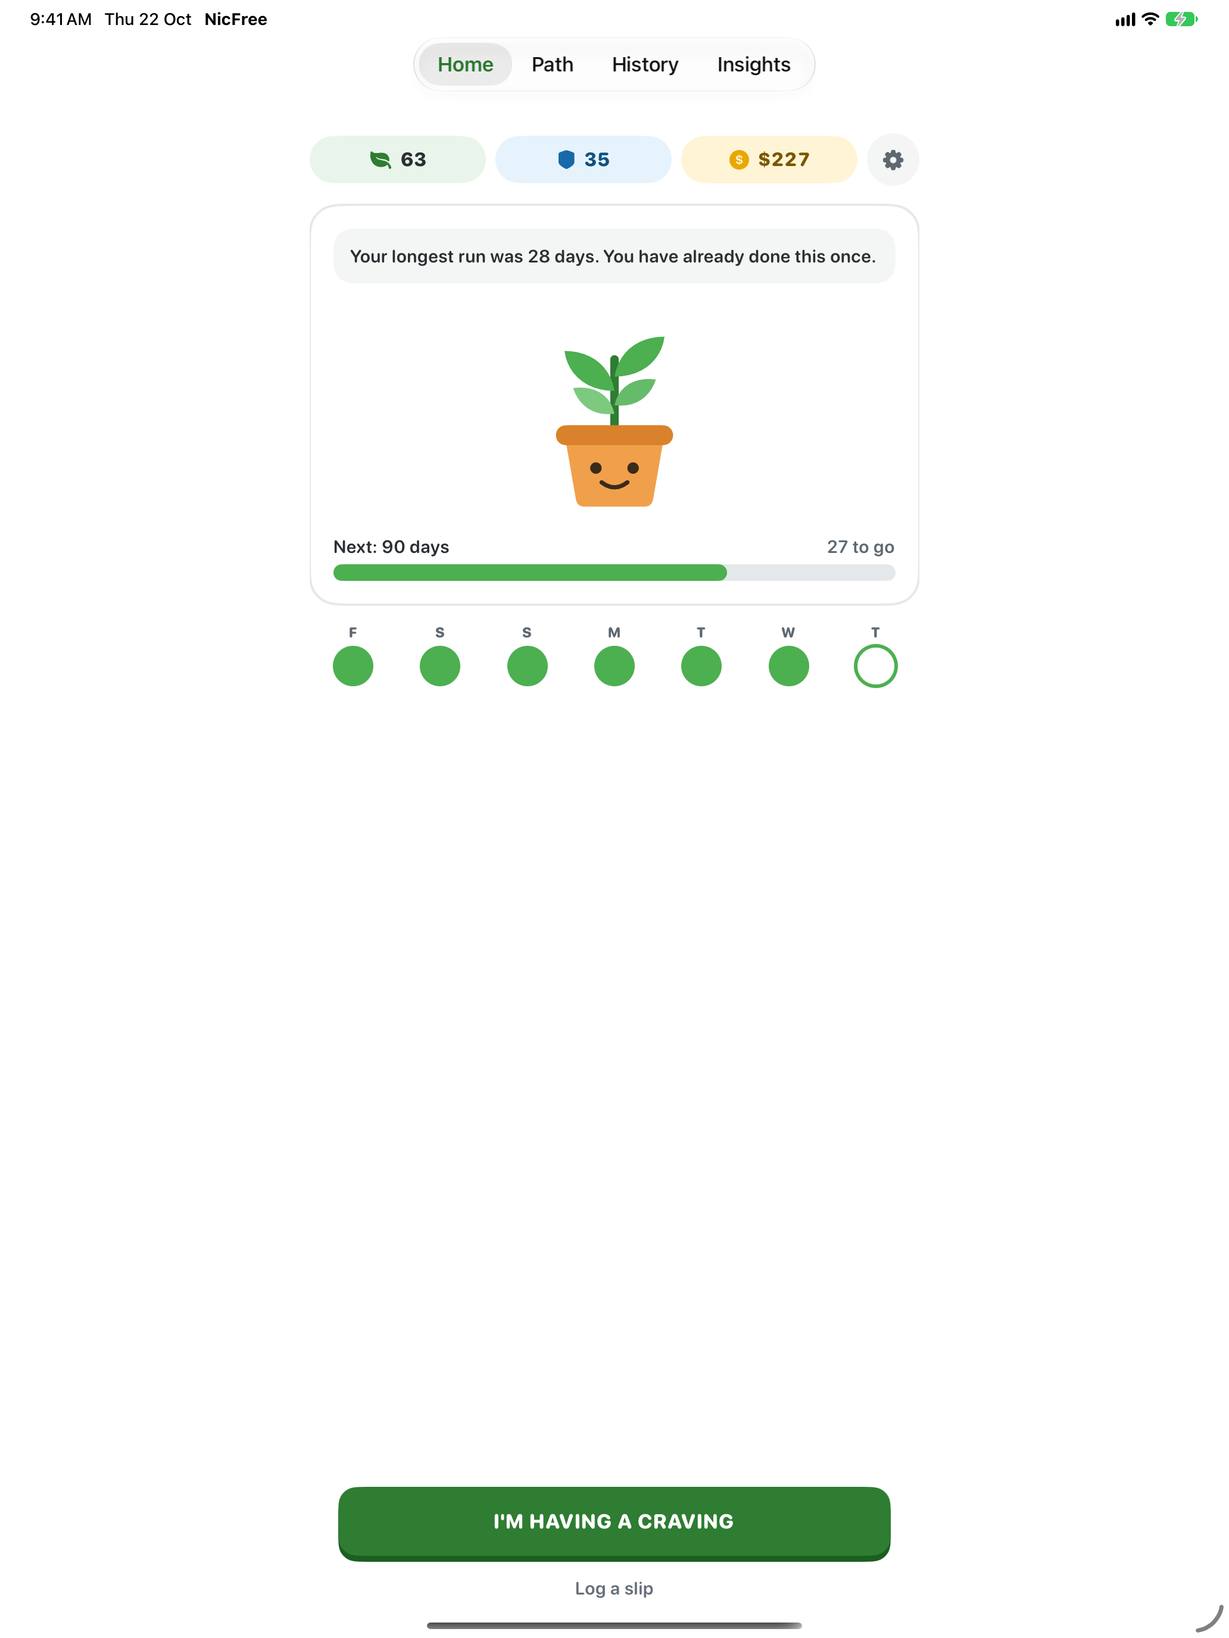
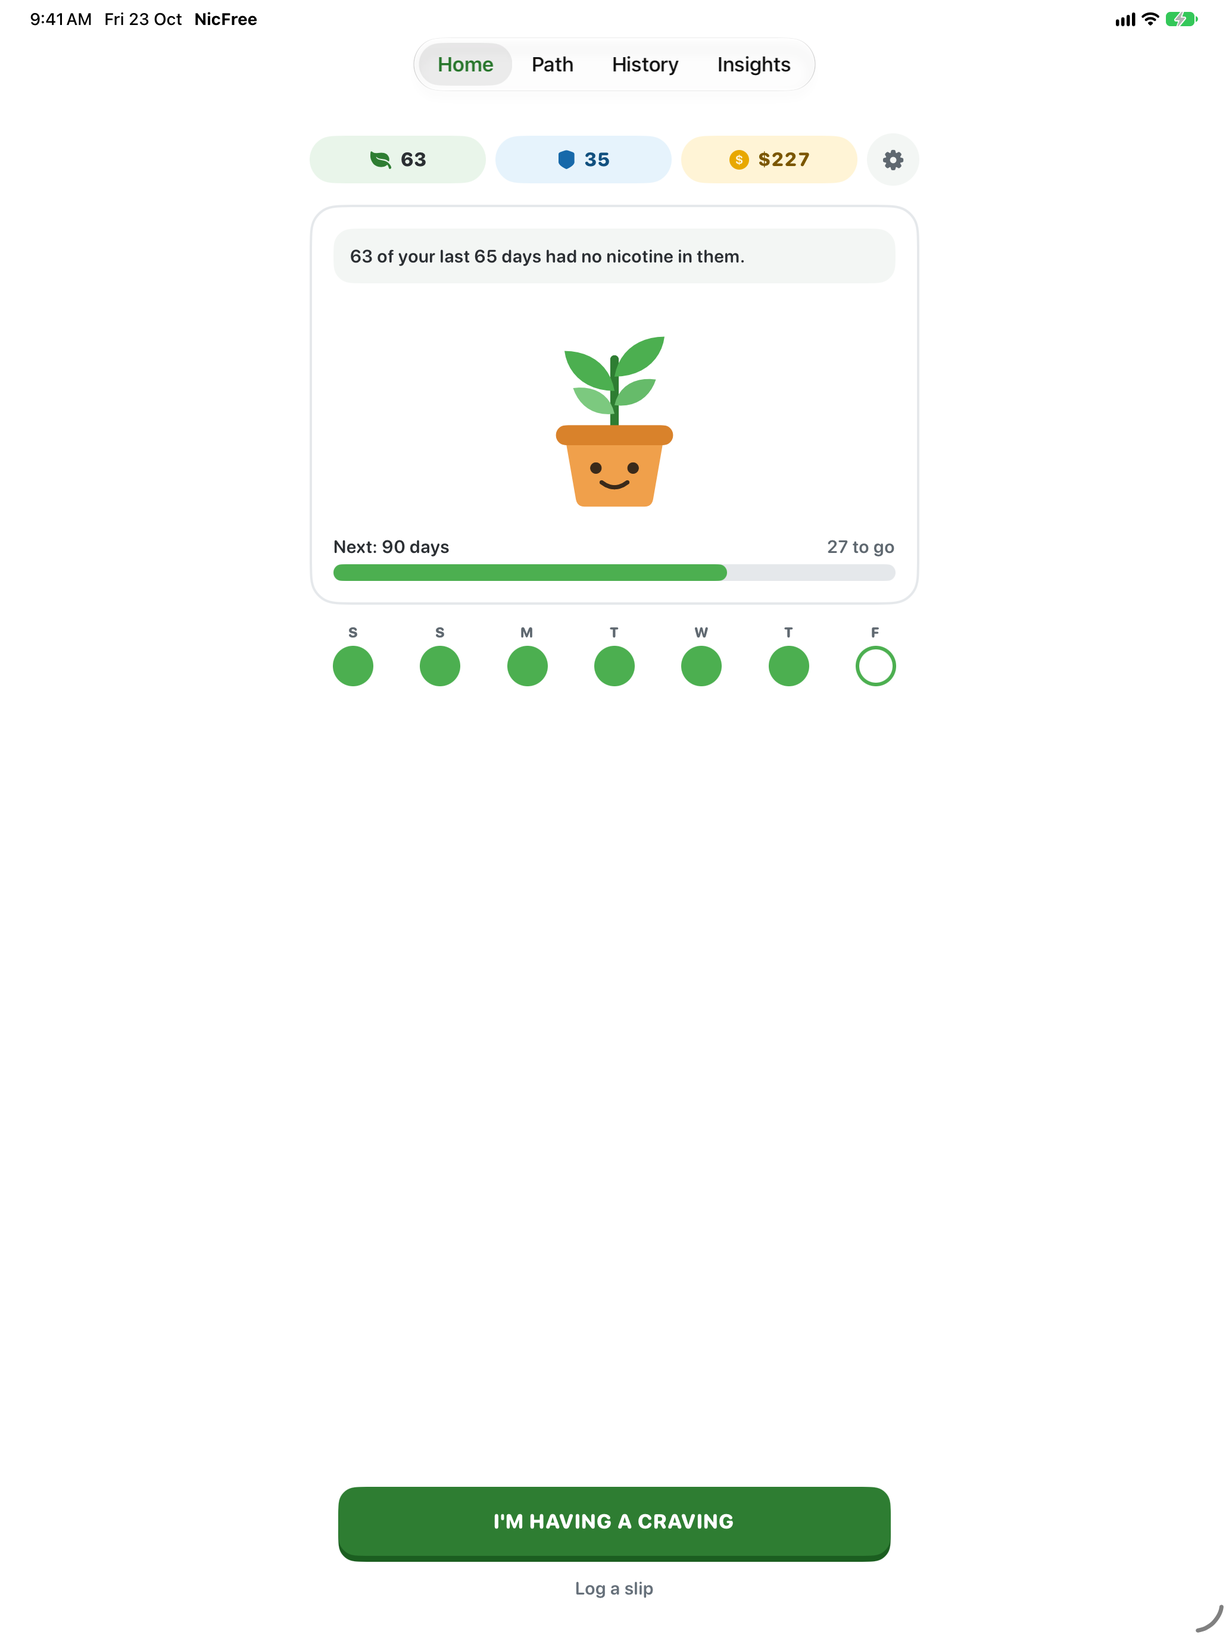
Docs brought up to date, export compliance key, fresh screenshots
- README for the public repo
- LAUNCH.md: Zain's fix list recorded, a "To submit" checklist, build ownership corrected
- FLOWS.md and ARCHITECTURE.md describe the current app: tabs, catch-up, paywall, settings
- CLAUDE.md: today exception to rule 1, opt-in check-in, three test passes, new traps
- LISTING.md: check-in copy fixed, in-app purchase fields, App Review notes
- Milestone primer and support page no longer promise "nothing else, ever"
- ITSAppUsesNonExemptEncryption = NO
- Screenshots regenerated (slip confirmation now has Done)

Changed region(s): [[0.3411, 0.9688, 0.6512, 1.0], [0.093, 0.0, 0.2171, 0.0312]]

diff --git a/site/index.html b/site/index.html
@@ -58,7 +58,7 @@
   <p>On purpose. NicFree counts your free days in total, not a streak. A slip adds a used day; it never takes away the free days you already have.</p>
 
   <h2>Do I need to open the app every day?</h2>
-  <p>No. A day you don't open NicFree counts as a free day. There is nothing to check in to.</p>
+  <p>No. Every day counts as free unless you log a slip. If you're away for a few days, NicFree asks about them once when you're back. There's an optional evening check-in in Settings, off unless you turn it on.</p>
 
   <h2>Where is my data stored?</h2>
   <p>Only on your iPhone or iPad. There is no account and nothing is sent to us. Deleting the app deletes your history, so think twice before you do.</p>

diff --git a/NicFree/NicFree/Features/Craving/CravingView.swift b/NicFree/NicFree/Features/Craving/CravingView.swift
@@ -184,7 +184,7 @@ struct CravingView: View {
                 .font(Typeface.title)
                 .foregroundStyle(Palette.ink)
 
-            Text("A short note at a day, three days, a week, a month. Nothing else, ever. NicFree will never nudge you for not opening it, because there is nothing to keep up with.")
+            Text("A short note at a day, three days, a week, a month. NicFree will never nudge you for not opening it.")
                 .font(Typeface.voice)
                 .foregroundStyle(Palette.inkSoft)
                 .fixedSize(horizontal: false, vertical: true)

diff --git a/docs/FLOWS.md b/docs/FLOWS.md
@@ -4,39 +4,56 @@ What each path through the app does, and what it writes.
 
 ## Launch
 
-`RootView` reads `@Query private var habits: [Habit]`. Empty means onboarding, otherwise
-Home. There is no separate "has onboarded" flag, so nothing can drift out of sync with the
-data.
+A launch screen (the sprout on the app's ground colour, from `NicFree-Info.plist`), then
+`RootView`, which reads `@Query private var habits: [Habit]`. Empty means onboarding,
+otherwise the four tabs: Home, Path, History, Insights. There is no separate "has onboarded"
+flag, so nothing can drift out of sync with the data.
+
+If the store could not be opened, the app runs on a temporary in-memory store and says so:
+before onboarding as its own screen, and on Home as a notice. It never crashes on launch.
 
 ## Onboarding
 
-Five steps, defaults on every one, no account, no paywall, and deliberately no permission
-prompt.
+Five steps, defaults on every one, a back button after the first, no account, no paywall,
+and deliberately no permission prompt.
 
-1. **What do you vape** — disposables, pods, or refillable by millilitre. Sets the unit.
-2. **How much and what it costs** — per week, with steppers. Framed as "a rough number is
-   fine", and it only shapes the money estimate, never the day count.
-3. **When did you stop** — defaults to today, past dates allowed, future dates not.
+1. **What do you use** — vape (disposables, pods, refillable) or nicotine pouches. Sets the
+   unit. One product per person in v1; more than one is on the v1.1 list.
+2. **How much** — per day for pouches, per week for vapes, with a stepper, plus an optional
+   weekly spend in the local currency. Framed as "a rough number is fine", and it only shapes
+   the money estimate, never the day count.
+3. **When did you stop** — Today, Yesterday, or Another day, which opens a calendar. Future
+   dates are not allowed.
 4. **Why** — up to three reasons in their own words. The highest value screen in the app:
    these come back during a craving, which is the only time they matter.
-5. **Ready** — teaches the core mechanic in one sentence: a day you do not open NicFree
-   counts as a day free.
+5. **Ready** — teaches the core mechanic: every day counts as free unless you log a slip,
+   and days away are asked about on return.
 
 **Writes:** one `Habit` on finish. Nicotine content per unit is inferred from the unit type
 rather than asked, and is editable later.
 
 ## Home
 
-Reads everything, writes nothing.
+Reads everything. Writes only `lastCheckedThrough` and catch-up slips.
 
-Hero number, the daily observation line, three quiet rows, then the action pair. The
+Stat chips (free days, cravings beaten, money not spent), the sprout card with the daily
+observation and progress to the next milestone, the week row, then the action pair. The
 asymmetry is deliberate: riding out a craving is a full width primary button, logging a slip
 is a small grey link. It must never be easier to record giving in than to sit with it, and
 that belongs in the hierarchy rather than in a sentence telling someone off.
 
-A toolbar button leads to History.
+A gear button opens Settings.
 
 On any change to the free day count, the milestone schedule is rebuilt.
+
+## Catch-up
+
+When Home becomes active after one or more full days away, it asks once: "Any nicotine
+since Tuesday?" "All free" is one tap. "Yes, on some days" shows a chip per missed day
+(at most 14), and the picked days are written as `DayRecord`s. Either way
+`lastCheckedThrough` moves to today, so the same days are never asked about twice. The days
+already counted as free; the question only lets someone correct that. Rules in
+`CatchUp.daysToAsk`.
 
 ## Craving
 
@@ -51,16 +68,16 @@ is competing with the thing that caused the craving.
   noise.
 - **It passed** → duration, optional trigger chips, Done.
   **Writes** a `CravingEvent` with `resisted: true` and the seconds held out.
-- **I vaped** → hands the held seconds to Home, which raises the slip sheet.
+- **I used** → hands the held seconds to Home, which raises the slip sheet.
   Styled as an ordinary secondary action, never as a failure.
 - **Primer.** On the first ride out, if notification permission is undetermined, an honest
   explanation of what we send and a plain statement that NicFree will never nudge you for not
-  opening it. Asked here rather than at onboarding, because asking on first launch trades a
+  opening it. The milestone status is fetched when the craving opens, so Done is instant. Asked here rather than at onboarding, because asking on first launch trades a
   permanent refusal for a moment of convenience.
 
 ## Slip
 
-Reachable from Home directly, or from the craving screen's "I vaped".
+Reachable from Home directly, or from the craving screen's "I used".
 
 Two questions. **How much** as four coarse options, never a count: asking a vaper how many
 puffs they took produces either a blank field or an invented number. **What set it off**, as
@@ -73,13 +90,14 @@ that day.
 trigger and any seconds held out before using. Editing an existing slip updates the record
 and does not create a second craving.
 
-Then the confirmation, held for 1.8 seconds: **"Logged. Every free day you’ve already had is still there."** A soft
+Then the confirmation, which stays until Done: **"Logged. Every free day you’ve already had is still there."** A soft
 haptic. Never the success haptic, because a system sound meaning "well done" at that moment
 would be grotesque.
 
 ## History
 
-Three readings of the same record.
+Three readings of the same record. Free users see the last 7 days; the rest is behind
+the unlock.
 
 - **Year grid.** Every day since the quit date, weekday aligned. Free days are lichen
   squares, used days are clay circles: shape as well as tone, so the distinction survives
@@ -96,5 +114,16 @@ Empty state reads "Nothing logged yet. That is the ideal outcome, not a gap."
 At 1, 3, 7, 14, 30, 60, 90, 180 and 365 **free** days, at 10am local. Titles are flatly
 factual with no exclamation marks: "A week free."
 
-There is deliberately no "you have not logged today" reminder. There is no check in to miss,
-and a guilt prompt would contradict the entire product.
+There is deliberately no "you have not logged today" reminder. Nothing is required, so
+there is no check in to miss, and a guilt prompt would contradict the entire product.
+
+The one exception is opt in: an **evening check-in** in Settings, off by default, at a time
+the user picks. Its words are "How did today go? Nothing to do if it was a free day."
+
+## Path, Insights, Paywall, Settings
+
+- **Path** — the milestone trail, scrolled to the next one. Free.
+- **Insights** — cravings, top triggers, hardest hour, weekly chart. Behind the unlock.
+- **Paywall** — one non-consumable, `nicfree.unlock`, with Restore purchase.
+- **Settings** — reasons, quit date, weekly spend, notifications, support and privacy links,
+  and in debug builds only, "Unlock everything".

diff --git a/CLAUDE.md b/CLAUDE.md
@@ -29,8 +29,13 @@ Breaking any of these breaks the product, not just a screen.
 
 1. **The hero number is cumulative lifetime free days and cannot decrease.** A slip adds a
    used day. It never removes a free one. Never introduce a streak as the primary figure.
+   The one exception is today: it counts as free until a slip is logged for it, so a slip
+   today lowers the total by one (`docs/DECISIONS.md`, 2026-10-22). Copy must not claim
+   the total is unchanged.
 2. **A `DayRecord` exists only for a day nicotine was used.** Absence means free. There is
-   no check in, no daily prompt, and no blank state to feel guilty about.
+   no required check in and no blank state to feel guilty about. On return after a day or
+   more away, Home asks once about the missed days. The evening check-in is opt in and off
+   by default (decided 2026-10-23).
 3. **Never shame.** Banned from all copy: fail, failed, broke, lost, streak, start over,
    relapse as a verb. Loss aversion as a motivator is banned outright.
 4. **Every user facing statistic must be acceptable on the day someone relapsed.** If a
@@ -67,11 +72,15 @@ Breaking any of these breaks the product, not just a screen.
   working through `LAUNCH.md`, and he evaluates at the end. Always pass `-derivedDataPath` pointing
   at the scratchpad so a build never fights an open Xcode window. Zain still owns the on-device
   check and every product call.
-- **Run tests with `tools/test.sh <simulator-udid>`.** It runs unit tests and UI tests as two
-  separate passes, because the UI tests' paywall leaves StoreKit state that breaks the purchase
-  unit test when they share a run. UI tests pass `-freshStoreForUITests` so they never see each
-  other's data; `-simulateDamagedStore` and `-forceDarkForUITests` exist for specific tests.
-  All three flags are DEBUG-only.
+- **Run tests with `tools/test.sh <simulator-udid>`.** It runs three separate passes (unit,
+  the purchase test alone, UI), because the UI tests' paywall leaves StoreKit state that
+  breaks the purchase unit test when they share a run.
+- **Screenshots with `tools/screenshots.sh <udid> <folder>`**: iPhone 17 Pro Max for
+  `screenshots/iphone-6.9`, iPad Pro 13-inch for `screenshots/ipad-13`.
+- DEBUG-only launch flags: `-freshStoreForUITests` (UI tests never see each other's data),
+  `-simulateDamagedStore`, `-forceDarkForUITests`, `-seedScreenshotData`,
+  `-unlockForScreenshots`, `-simulateAwayForUITests`. Settings has a DEBUG-only
+  "Unlock everything" switch for trying the paid screens.
 - The project uses **file system synchronized groups**: folder location *is* target
   membership. Put a file in the right folder and it is in the right target. Never edit
   target membership by hand.
@@ -87,3 +96,9 @@ Breaking any of these breaks the product, not just a screen.
   call is ambiguous against `callAsFunction`.
 - Presenting a sheet directly from a full screen cover's dismissal handler drops it. Raise
   it from the cover's `onDismiss` instead.
+- A sheet that needs data uses `sheet(item:)`, never `sheet(isPresented:)` plus a separate
+  `@State`. The catch-up sheet showed "Any nicotine since ?" until it was switched.
+- Bordered chips and buttons inside a scroll view use `strokeBorder`, not `stroke`, or the
+  scroll edge clips half the line.
+- `SectionLabel` uppercases its text, and so does its accessibility label. UI tests match it
+  with `BEGINSWITH` or `CONTAINS`, never an exact string.

diff --git a/LAUNCH.md b/LAUNCH.md
@@ -18,8 +18,9 @@ full product plan.
 
 ## Who does what
 
-Claude writes the code and the listing copy. Zain builds, runs on device, judges, and makes
-every product call. Claude never compiles (see `CLAUDE.md`).
+Since Oct 22, Claude writes the code and listing copy, builds, and runs the tests
+(`tools/test.sh`). Zain runs it on a device, judges it, and makes every product call. Anything
+that needs his Apple account (App Store Connect, signing) stays with him.
 
 ## Where things stand (audit, Oct 22)
 
@@ -46,9 +47,25 @@ notifications, `QuitStats`, `CravingInsights`, `ObservationEngine`, string catal
 - [x] Rename project to NicFree
 - [x] Bundle ID `com.zainnajamkhan.nicfree`; iOS 26.0 minimum; iPhone (portrait) and iPad
 - [x] App Store screenshots: `screenshots/iphone-6.9` and `screenshots/ipad-13`, six each (`tools/screenshots.sh`)
-- [ ] App Store Connect: app record, `nicfree.unlock` IAP at $9.99, listing, age rating (Zain)
-- [ ] Signing team in Xcode, then archive and TestFlight upload
 - [x] Support and privacy pages live: https://zainnajamkhan.github.io/nicfree-site/ and /privacy.html (public repo `nicfree-site`), linked from Settings
+- [x] Zain's first test (Oct 23): all items in "Fix list" below handled
+- [x] Export compliance: `ITSAppUsesNonExemptEncryption = NO`, so uploads skip the encryption question
+
+## To submit
+
+In order. Nothing else blocks submission.
+
+| # | Step | Who |
+|---|---|---|
+| 1 | USPTO check on "NicFree" (live marks in software or health) | Zain |
+| 2 | App Store Connect: new app, bundle ID `com.zainnajamkhan.nicfree`, name from `docs/LISTING.md`. This reserves the name | Zain |
+| 3 | In-app purchase: non-consumable `nicfree.unlock`, $9.99, display name and description from `docs/LISTING.md`, review screenshot of the paywall | Zain |
+| 4 | Xcode → NicFree target → Signing & Capabilities: pick the paid "Zain Najam" team (individual membership) | Zain |
+| 5 | Archive and upload to TestFlight | Claude, once step 4 is done |
+| 6 | Install from TestFlight on your phone. Buy the unlock with a sandbox account, then restore | Zain |
+| 7 | VoiceOver pass on the phone | Zain |
+| 8 | Listing: paste from `docs/LISTING.md`, upload `screenshots/`, support and privacy URLs, App Privacy = "Data Not Collected", age rating questionnaire, attach the IAP to version 1.0 | Zain |
+| 9 | Submit for review | Zain |
 
 ## In v1
 
@@ -105,18 +122,17 @@ Weekdays are about 2 hours, weekends 4 to 5.
 
 ## Fix list
 
-Fill this in on Oct 22 after using the app end to end.
+From Zain's first run on Oct 23. Details in `docs/DECISIONS.md`.
 
-1.
-2.
-3.
-4.
-5.
-6.
-7.
-8.
-9.
-10.
+1. ✅ No launch screen: white or dark ground with the sprout (`NicFree-Info.plist`)
+2. ✅ No way back in onboarding: back button on every step after the first
+3. ✅ "A day you don't open the app counts as free" felt wrong: the catch-up question on
+   return plus an optional evening check-in (off by default)
+4. ➡ More than one product per person (for example cigarettes to vape): v1.1
+5. ✅ See the paid screens while developing: Settings → "Unlock everything" (debug builds only)
+6. ✅ Chips clipped on the left edge in the slip sheet: borders drawn inside
+7. ✅ Native-looking date pill: Today / Yesterday / Another day, with a styled calendar
+8. ✅ "Logged" sheet vanished by itself: it now waits for Done
 
 ## After launch
 

diff --git a/docs/ARCHITECTURE.md b/docs/ARCHITECTURE.md
@@ -12,17 +12,24 @@ because a wrong hero number would destroy trust in everything else the app says.
 
 ```
 NicFree/NicFree/
-  App/          NicFreeApp (ModelContainer), RootView (onboarding vs home)
+  App/          NicFreeApp (ModelContainer, DEBUG launch flags), RootView (onboarding vs
+                tabs, damaged store screen), ScreenshotData (DEBUG seed)
   Models/       Habit, DayRecord, CravingEvent, and the enums
   Core/
     Stats/      QuitStats, QuitStatsSeries        ← pure, tested
     Insights/   CravingInsights                   ← pure, tested
     Observations/ ObservationEngine               ← pure
-    Notifications/ MilestoneScheduler
-  Design/       Theme (tokens), Components, FlowLayout
-  Features/     Onboarding, Home, Craving, Slip, History
-  Resources/    Assets, Localizable.xcstrings
-NicFreeTests/     QuitStatsTests, CravingInsightsTests
+    CatchUp/    CatchUp (which missed days to ask about) ← pure, tested
+    Text/       Inflection ("1 free day")         ← tested
+    Notifications/ MilestoneScheduler, ReminderScheduler
+    Store/      PurchaseStore (StoreKit 2, one non-consumable) ← tested
+  Design/       Theme (tokens), Components, Sprout (mascot), FlowLayout
+  Features/     Onboarding, Home, Craving, Slip, CatchUp, Path, History, Insights,
+                Paywall, Settings
+  Resources/    Assets, Localizable.xcstrings, PrivacyInfo.xcprivacy
+NicFreeTests/     QuitStats, CravingInsights, CatchUp, PurchaseStore, Tone, Inflection
+NicFreeUITests/   first run (light, dark, largest text), damaged store, catch-up,
+                  App Store screenshots
 ```
 
 Folder location determines target membership, because the project uses file system
@@ -40,8 +47,7 @@ derived, never entered.
 
 **`DayRecord`** — **exists only for a day on which nicotine was used.** This is the most
 important design decision in the schema. The absence of a record is what makes a day free,
-so a free day costs zero interactions, there is nothing to check in to, and the no check in
-promise is structural rather than a copy choice someone can later erode.
+so a free day costs zero interactions, no check-in is ever required, and that promise is structural rather than a copy choice someone can later erode.
 
 **`CravingEvent`** — every craving, resisted or not, with how long it was held out and what
 set it off. A slip logged from the slip sheet also writes one of these with

diff --git a/docs/LISTING.md b/docs/LISTING.md
@@ -30,8 +30,10 @@ WATCH IT ADD UP
 • A sprout that grows as your free days add up
 • A milestone path: 1 day, 3, 7, 14, 30, 60, 90, 180, a year
 
-NO CHECK-INS
-There is nothing to check in to. A day you do not open NicFree counts as a free day.
+NOTHING TO KEEP UP WITH
+Every day counts as free unless you log a slip. Away for a few days? NicFree asks once
+about them when you're back. An evening check-in is there if you want one, off unless you
+turn it on.
 
 PRIVATE BY DESIGN
 No account. No tracking. No data collected. Everything stays on your iPhone.
@@ -42,6 +44,25 @@ they come, how long they last) and your full history.
 
 NicFree is not a medical device and does not give medical advice. If you are worried
 about nicotine withdrawal, talk to a doctor or pharmacist.
+
+## In-app purchase
+
+| Field | Limit | Value |
+|---|---|---|
+| Type | | Non-consumable |
+| Reference name | 64 | NicFree Unlock |
+| Product ID | | `nicfree.unlock` (must match `PurchaseStore.unlockID`) |
+| Price | | $9.99 (US), other storefronts auto-equalised |
+| Display name | 30 | Unlock NicFree (14) |
+| Description | 45 | Insights and your full history, for good. (41) |
+| Review screenshot | | The paywall: History tab → Unlock, on the 6.9" simulator |
+
+## App Review notes
+
+No account or sign-in. The free app is fully usable. The one purchase (`nicfree.unlock`)
+unlocks Insights and full History; both tabs show an Unlock button, and the paywall has
+Restore purchase. NicFree helps people stop using nicotine. It does not sell or promote
+nicotine products, and it gives no medical advice.
 
 ## Still needed from Zain
 

diff --git a/README.md b/README.md
@@ -1,0 +1,42 @@
+# NicFree
+
+An iPhone and iPad app for quitting vaping and nicotine pouches. It counts your free days
+in total, not as a streak, so a slip never wipes them out.
+
+- No account, no tracking, nothing leaves the device
+- Free core app, one $9.99 purchase for Insights and full History, no subscription
+- SwiftUI, SwiftData and StoreKit 2. Apple frameworks only
+
+Support and privacy: https://zainnajamkhan.github.io/nicfree-site/
+
+## Run it
+
+Needs Xcode 27 or later. The app targets iOS 26.0.
+
+1. Open `NicFree/NicFree.xcodeproj`
+2. Pick the NicFree scheme and a simulator, then ⌘R
+
+The scheme uses `NicFree/NicFree.storekit`, so the purchase works locally without App Store
+Connect. In debug builds, Settings has an "Unlock everything" switch.
+
+## Test it
+
+```sh
+tools/test.sh <simulator-udid>       # unit, purchase and UI tests, as three passes
+tools/screenshots.sh <udid> <folder> # App Store screenshots
+```
+
+`xcrun simctl list devices` gives the UDIDs.
+
+## Docs
+
+| File | What's in it |
+|---|---|
+| `LAUNCH.md` | v1 scope, what's left before submission, the later list |
+| `docs/FLOWS.md` | Every user flow and what it writes |
+| `docs/ARCHITECTURE.md` | Code structure and data model |
+| `docs/DECISIONS.md` | Non obvious decisions and why |
+| `docs/LISTING.md` | App Store listing, in-app purchase and review notes |
+| `docs/PRIVACY.md` | Privacy policy source |
+| `CLAUDE.md` | Product rules and conventions for working on the code |
+| `PLAN.md`, `BLUEPRINT.md` | Original product plan and market research |
